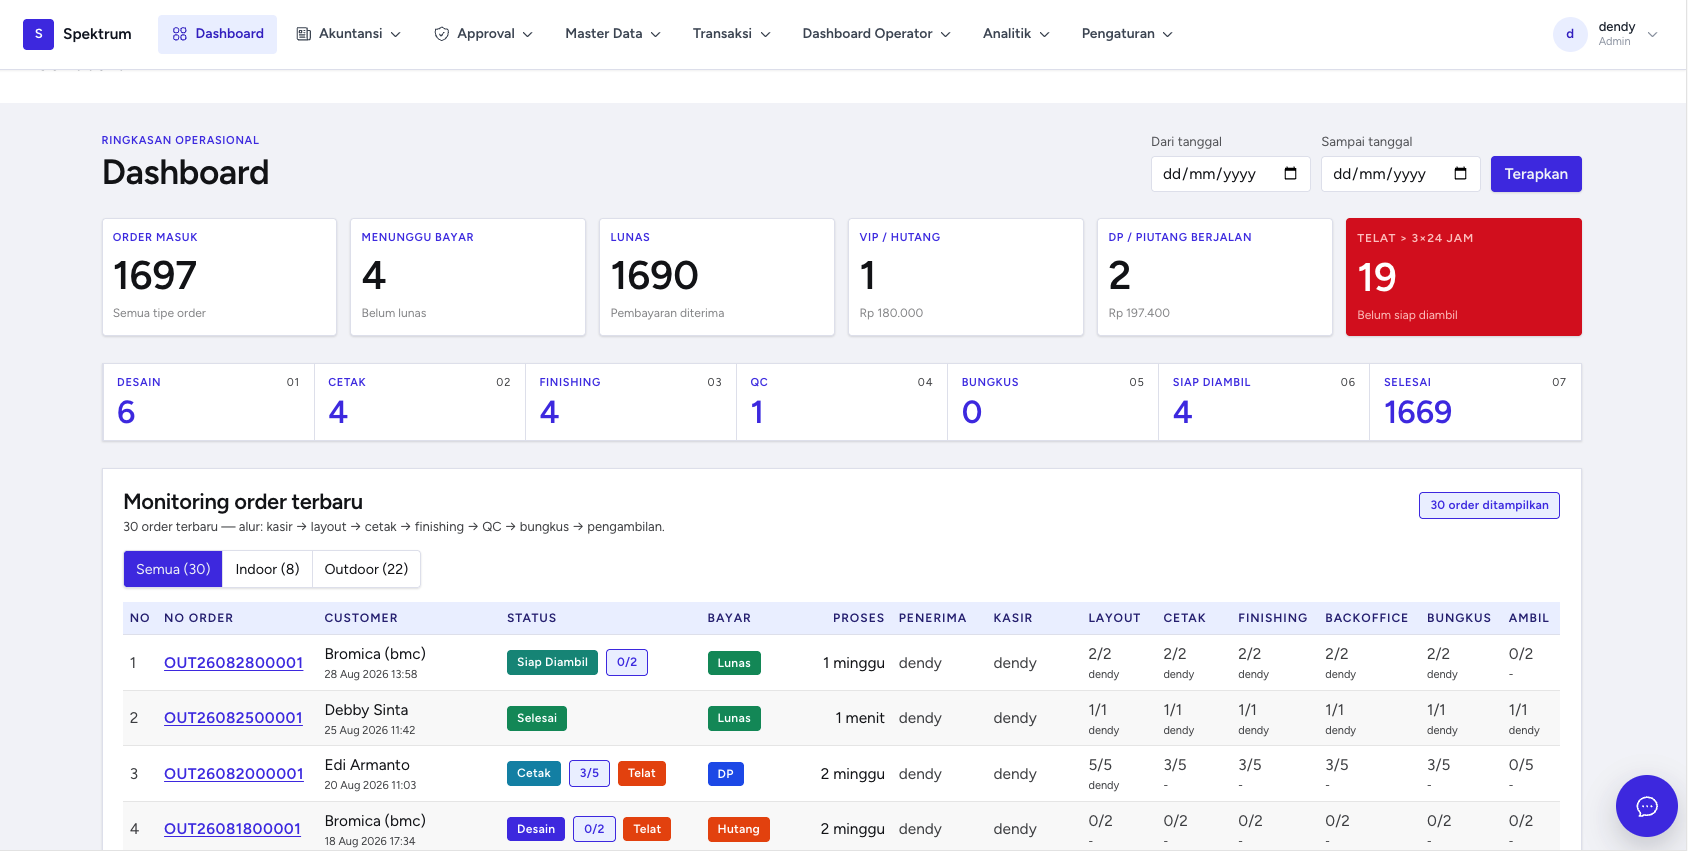
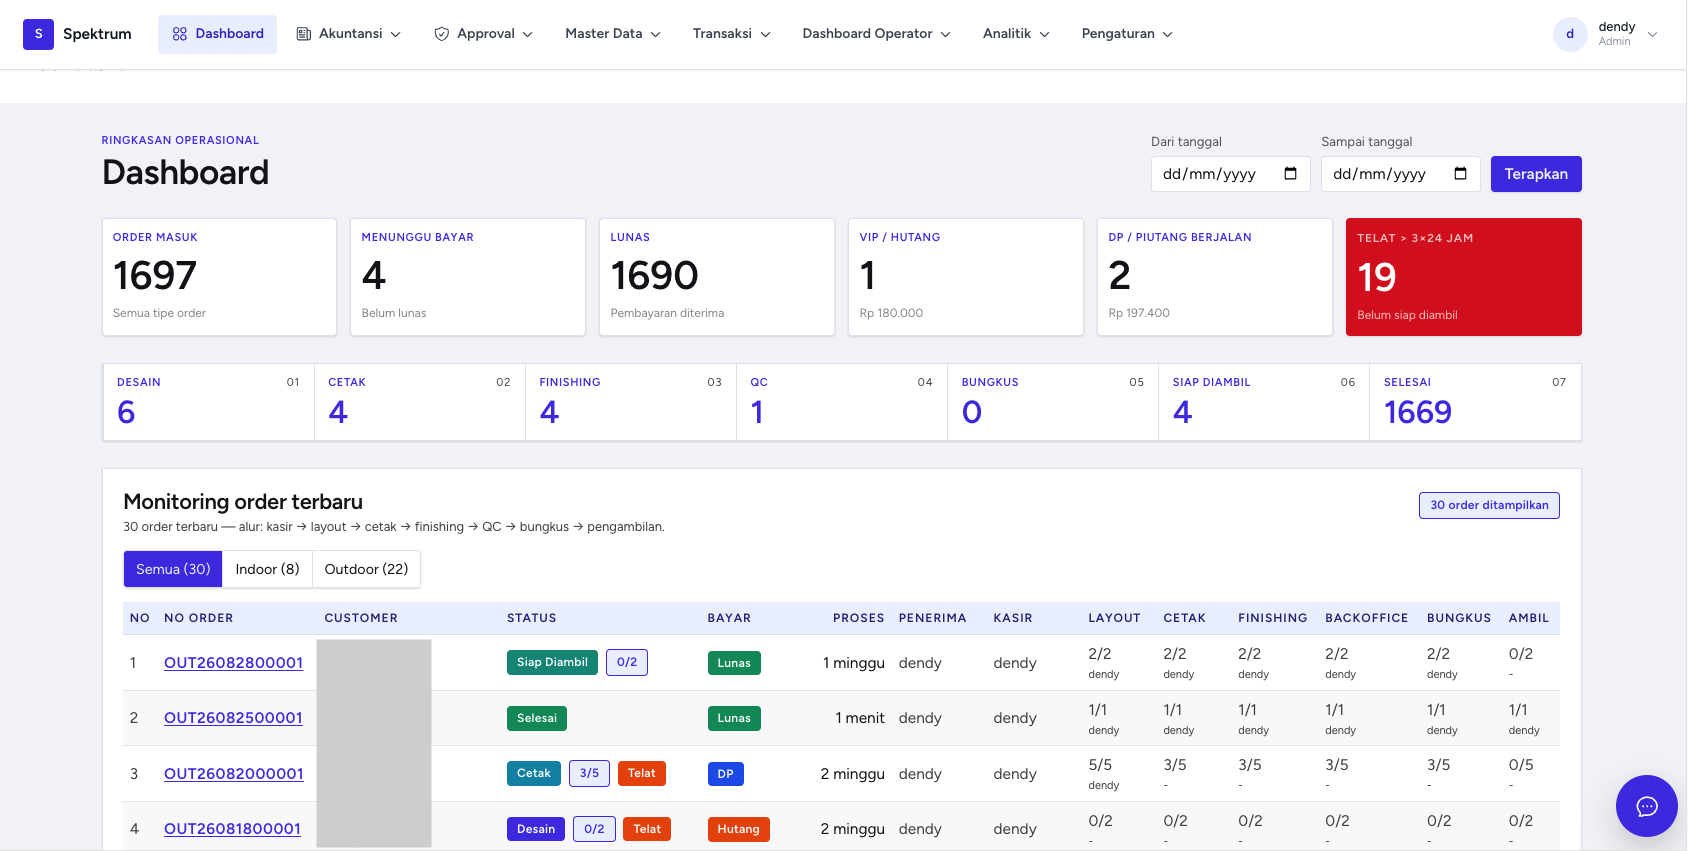
update porto image

Changed region(s): [[0.1848, 0.7333, 0.2773, 1.0]]

diff --git a/resources/views/portfolio.blade.php b/resources/views/portfolio.blade.php
@@ -14,7 +14,7 @@
 <body>
     <nav class="nav"><div class="wrap nav-in"><a href="{{ url('/') }}" class="brand">Yala Labs</a><div class="nav-links"><a href="{{ url('/') }}#produk">Produk</a><a href="{{ route('portfolio') }}" class="active">Portofolio</a><a href="{{ route('about') }}">Tentang Kami</a></div></div></nav>
     <main>
-        <section class="hero"><div class="wrap hero-grid"><div><p class="kicker">Portofolio</p><h1>Web App <em>System</em></h1><p>Setiap produk dibentuk dari kebutuhan operasional yang berbeda. Berikut cuplikan antarmuka untuk pengelolaan secara online.</p></div><aside class="hero-note"><b>Catatan portofolio</b>Tampilan berikut adalah dokumentasi antarmuka proyek yang dikembangkan oleh Yala Labs.</aside></div></section>
+        <section class="hero"><div class="wrap hero-grid"><div><p class="kicker">Portofolio</p><h1>Web <em>App</em></h1><p>Setiap produk dibentuk dari kebutuhan operasional yang berbeda. Berikut contoh antarmuka untuk pengelolaan secara online.</p></div><aside class="hero-note"><b>Catatan portofolio</b>Tampilan berikut adalah dokumentasi antarmuka proyek yang dikembangkan oleh Yala Labs.</aside></div></section>
         <section class="portfolio"><div class="wrap">
             <article class="project"><div class="project-top"><div class="project-title"><span class="project-index" style="color:var(--kosud)">01 / Web App</span><h2>Koperasi</h2></div><p>Ekosistem layanan koperasi: belanja swalayan untuk anggota serta informasi lokasi dan layanan terkait.</p></div><div class="project-shell kosud"><div class="project-intro"><strong>Operasional koperasi &amp; pengalaman anggota</strong><span>WEB APPLICATION</span></div><div class="screens"><div class="screen"><figure><img src="{{ asset('images/kosud/swalayan.png') }}" alt="Swalayan online Kosudgama"><figcaption>Swalayan anggota<span>Katalog dan pengalaman belanja kebutuhan harian.</span></figcaption></figure></div><div class="screen"><figure><img src="{{ asset('images/kosud/map.png') }}" alt="Peta layanan Kosudgama"><figcaption>Peta layanan<span>Akses lokasi dan informasi unit koperasi.</span></figcaption></figure></div></div></div></article>
             <article class="project"><div class="project-top"><div class="project-title"><span class="project-index" style="color:var(--spektrum)">02 / SPEKTRUM</span><h2>ERP Operasional Percetakan</h2></div><p>Antarmuka operasional untuk mengelola pekerjaan, transaksi, dan pemantauan aktivitas produksi secara terarah.</p></div><div class="project-shell spektrum"><div class="project-intro"><strong>Alur kerja produksi dan transaksi</strong><span>BUSINESS SYSTEM</span></div><div class="screens"><div class="screen"><figure><img src="{{ asset('images/spektrum/login.png') }}" alt="Login SpektrumX"><figcaption>Akses sistem<span>Halaman masuk untuk pengguna operasional.</span></figcaption></figure></div><div class="screen"><figure><img src="{{ asset('images/spektrum/dashboard.png') }}" alt="Dashboard SpektrumX"><figcaption>Dashboard operasional<span>Ringkasan aktivitas untuk memantau pekerjaan berjalan.</span></figcaption></figure></div></div></div></article>
